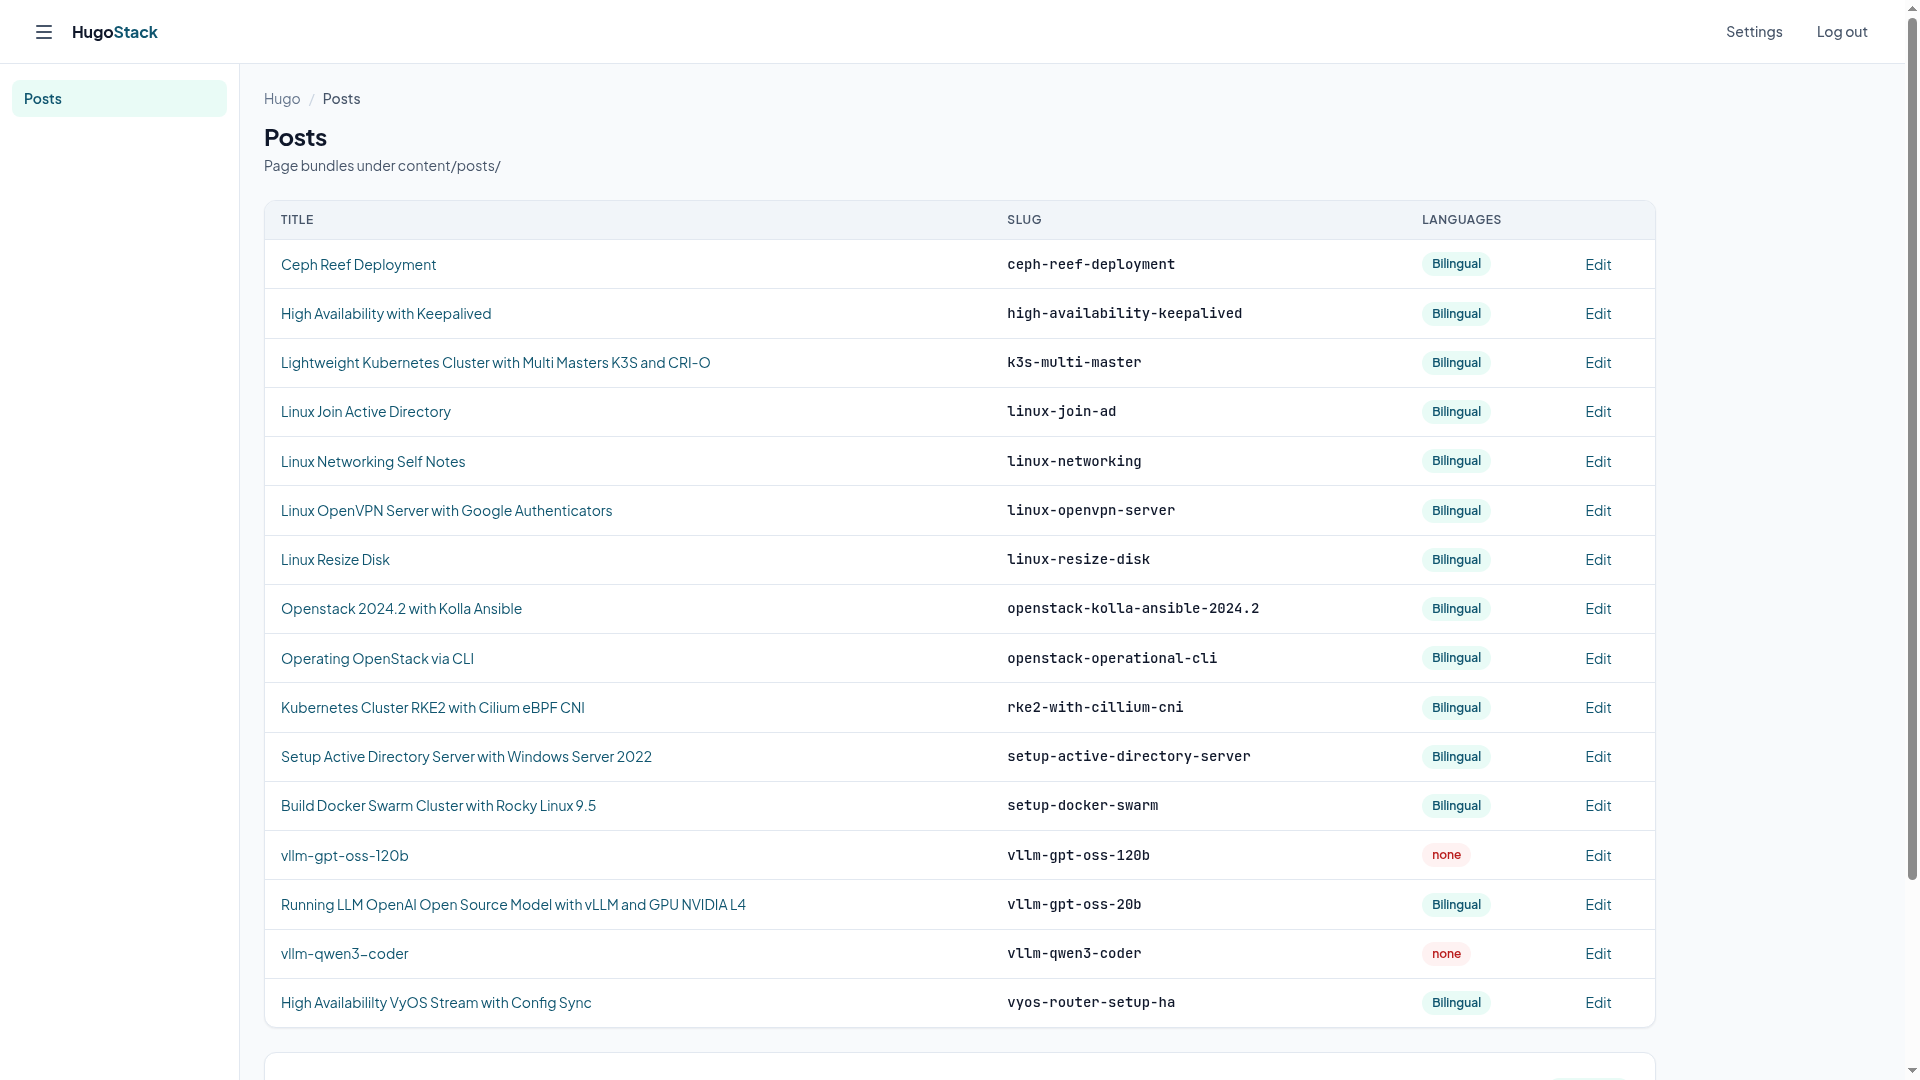
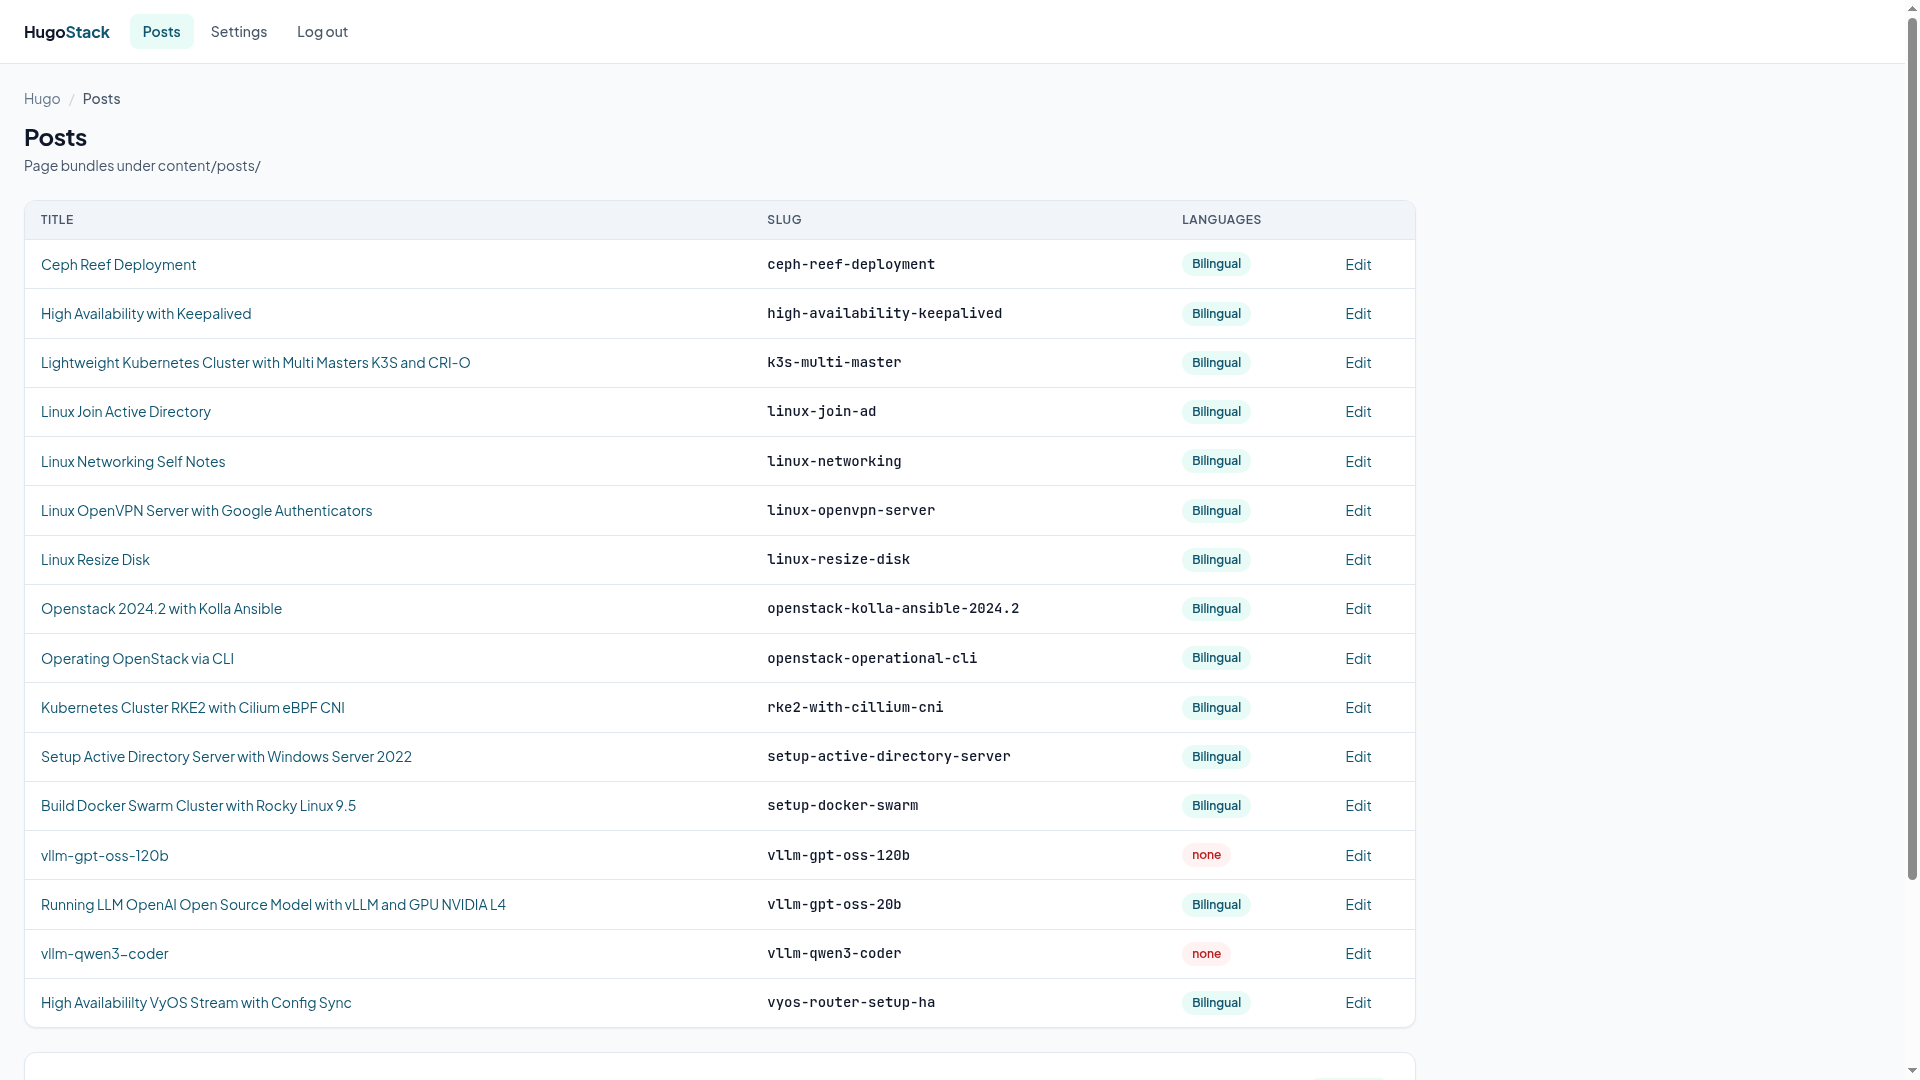
Header nav: Posts/Settings/Log out in topbar, remove sidebar + hamburger
- topbar order: HugoStack | Posts | Settings | Log out (Posts active-pill)
- sidebar, hamburger button, and toggle JS removed - editor gains the full
  240px sidebar width
- docs screenshots reshoot from the running container

diff --git a/ui/static/style.css b/ui/static/style.css
@@ -45,7 +45,6 @@
 
   --style-topbar-height: 64px;
   --style-page-padding: 24px;
-  --style-sidebar-width: 240px;
   --style-row-height: 48px;
   --style-button-height: 40px;
 
@@ -105,77 +104,9 @@ body {
 .topbar__action--danger:hover { background: rgba(220, 38, 38, 0.08); color: var(--style-status-danger-text); }
 .topbar__action:focus-visible { outline: none; box-shadow: 0 0 0 3px rgba(37, 157, 220, 0.32); }
 
-/* Hamburger (CSS-drawn, no icon font) */
-.hamburger {
-  display: inline-flex;
-  flex-direction: column;
-  align-items: center;
-  justify-content: center;
-  gap: 4px;
-  width: var(--style-button-height);
-  height: var(--style-button-height);
-  padding: 0 var(--style-spacing-3);
-  background: transparent;
-  border: none;
-  border-radius: var(--style-radius-md);
-  cursor: pointer;
-  transition: background var(--style-motion);
-}
-.hamburger:hover { background: var(--style-bg-surface-muted); }
-.hamburger:focus-visible { outline: none; box-shadow: 0 0 0 3px rgba(37, 157, 220, 0.32); }
-.hamburger__line {
-  display: block;
-  width: 100%;
-  height: 2px;
-  border-radius: 1px;
-  background: var(--style-text-secondary);
-  transition: transform var(--style-motion), opacity var(--style-motion);
-}
-.shell[data-menu="open"] .hamburger__line:nth-child(1) { transform: translateY(6px) rotate(45deg); }
-.shell[data-menu="open"] .hamburger__line:nth-child(2) { opacity: 0; }
-.shell[data-menu="open"] .hamburger__line:nth-child(3) { transform: translateY(-6px) rotate(-45deg); }
-
-/* AppShell: sidebar + main */
-.shell { display: flex; align-items: stretch; }
-.sidebar {
-  position: sticky;
-  top: var(--style-topbar-height);
-  width: var(--style-sidebar-width);
-  flex-shrink: 0;
-  height: calc(100vh - var(--style-topbar-height));
-  padding: var(--style-spacing-4) var(--style-spacing-3);
-  background: var(--style-bg-surface);
-  border-right: 1px solid var(--style-border-default);
-}
-.sidebar__nav { display: flex; flex-direction: column; gap: var(--style-spacing-1, 4px); }
-.nav-item {
-  display: block;
-  padding: var(--style-spacing-2) var(--style-spacing-3);
-  border-radius: var(--style-radius-md);
-  font-size: var(--style-text-sm);
-  font-weight: 500;
-  color: var(--style-text-secondary);
-  text-decoration: none;
-  transition: background var(--style-motion), color var(--style-motion);
-}
-.nav-item:hover { background: var(--style-bg-surface-muted); color: var(--style-text-primary); }
-.nav-item.is-active { background: var(--style-bg-brand-soft); color: var(--style-text-brand); font-weight: 600; }
-
-/* Menu open/close (hamburger): desktop defaults open, mobile defaults closed */
-.shell[data-menu="closed"] .sidebar { display: none; }
-@media (max-width: 900px) {
-  .sidebar {
-    position: fixed;
-    top: var(--style-topbar-height);
-    left: 0;
-    bottom: 0;
-    z-index: 20;
-    height: auto;
-    overflow-y: auto;
-    box-shadow: var(--style-shadow-md);
-  }
-  .shell:not([data-menu="open"]) .sidebar { display: none; }
-}
+/* Header nav (Posts / Settings / Log out live in the topbar; no sidebar) */
+.topbar__nav { display: flex; align-items: center; gap: var(--style-spacing-1, 4px); margin-left: var(--style-spacing-3); }
+.topbar__action.is-active { background: var(--style-bg-brand-soft); color: var(--style-text-brand); font-weight: 600; }
 
 .main {
   flex: 1;

diff --git a/ui/templates/shell.html b/ui/templates/shell.html
@@ -13,30 +13,17 @@
 <body>
 <header class="topbar">
   <div class="topbar__left">
-    {{if not .NoNav}}
-    <button class="hamburger" type="button" aria-label="Toggle module menu" aria-expanded="true" aria-controls="module-menu">
-      <span class="hamburger__line"></span>
-      <span class="hamburger__line"></span>
-      <span class="hamburger__line"></span>
-    </button>
-    {{end}}
     <div class="topbar__brand">Hugo<em>Stack</em></div>
-  </div>
-  {{if not .NoNav}}
-  <div class="topbar__right">
-    <a class="topbar__action" href="/settings">Settings</a>
-    <a class="topbar__action topbar__action--danger" href="/logout">Log out</a>
-  </div>
-  {{end}}
-</header>
-<div class="shell" data-menu="open">
-  {{if not .NoNav}}
-  <aside class="sidebar" id="module-menu">
-    <nav class="sidebar__nav" aria-label="Modules">
-      <a class="nav-item{{if eq .Active "posts"}} is-active{{end}}" href="/">Posts</a>
+    {{if not .NoNav}}
+    <nav class="topbar__nav" aria-label="Main">
+      <a class="topbar__action{{if eq .Active "posts"}} is-active{{end}}" href="/">Posts</a>
+      <a class="topbar__action{{if eq .Active "settings"}} is-active{{end}}" href="/settings">Settings</a>
+      <a class="topbar__action topbar__action--danger" href="/logout">Log out</a>
     </nav>
-  </aside>
-  {{end}}
+    {{end}}
+  </div>
+</header>
+<div class="shell">
   <main class="main">
     {{if not .NoNav}}
     <nav class="breadcrumb" aria-label="Breadcrumb">
@@ -53,30 +40,6 @@
     {{template "body" .}}
   </main>
 </div>
-<script>
-(function () {
-  var shell = document.querySelector(".shell");
-  var btn = document.querySelector(".hamburger");
-  if (!shell || !btn) { return; }
-  var mq = window.matchMedia("(min-width: 901px)");
-  function setState(open) {
-    shell.dataset.menu = open ? "open" : "closed";
-    btn.setAttribute("aria-expanded", open ? "true" : "false");
-  }
-  function sync() { setState(mq.matches); }
-  btn.addEventListener("click", function () {
-    setState(shell.dataset.menu !== "open");
-  });
-  if (mq.addEventListener) { mq.addEventListener("change", sync); }
-  else { mq.addListener(sync); }
-  document.querySelectorAll(".nav-item").forEach(function (a) {
-    a.addEventListener("click", function () {
-      if (!mq.matches) { setState(false); }
-    });
-  });
-  sync();
-})();
-</script>
 {{if .PageJS}}
 <script>{{.PageJS}}</script>
 {{end}}
